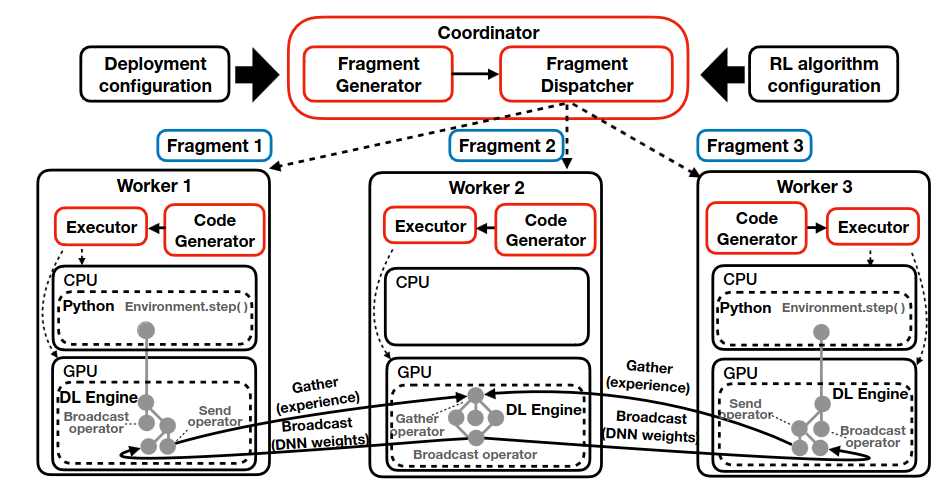
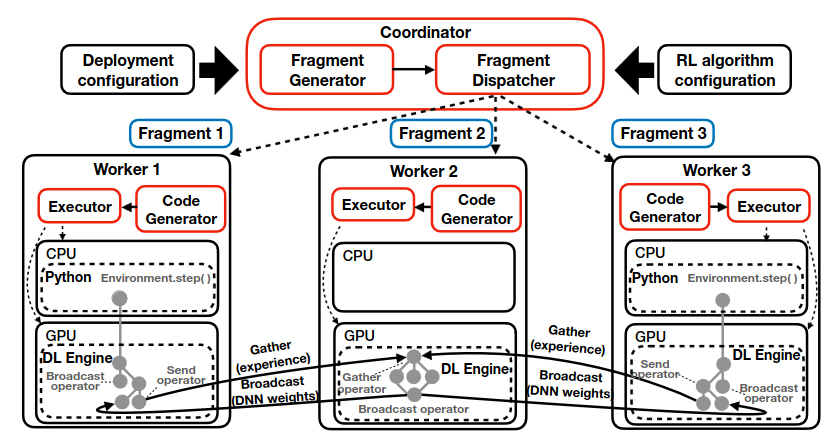
update msrl to dp2

diff --git a/tests/st/test_fully_connected_layer.py b/tests/st/test_fully_connected_layer.py
@@ -16,11 +16,12 @@
 Test case for fully connected layer module
 """
 
-import pytest
 import numpy as np
-import mindspore.nn as nn
-from mindspore import Tensor
+import pytest
+from mindspore import Tensor, nn
+
 from mindspore_rl.network.fully_connected_net import FullyConnectedLayers
+
 
 class Net(nn.Cell):
     """
@@ -29,8 +30,8 @@ class Net(nn.Cell):
 
     def __init__(self):
         super().__init__()
-        self.fc1 = nn.Dense(10, 20)
-        self.fc2 = nn.Dense(20, 3)
+        self.fc1 = nn.Dense(10, 20, bias_init="zeros")
+        self.fc2 = nn.Dense(20, 3, bias_init="zeros")
         self.relu = nn.ReLU()
 
     def construct(self, x):
@@ -39,6 +40,7 @@ class Net(nn.Cell):
         x = self.fc2(x)
         return self.relu(x)
 
+
 @pytest.mark.level0
 @pytest.mark.platform_x86_gpu_training
 @pytest.mark.platform_x86_ascend_training
@@ -46,19 +48,19 @@ class Net(nn.Cell):
 @pytest.mark.platform_x86_cpu
 @pytest.mark.env_onecard
 def test_fully_connected_layer():
-    '''
+    """
     Feature: Test test_fully_connected_layer class
     Description: Test test_fully_connected_layer class
     Expectation: success.
-    '''
+    """
     net = Net()
     fc_layers = FullyConnectedLayers(fc_layer_params=[10, 20, 3])
     net_fc1_weight = net.trainable_params()[0]
     net_fc2_weight = net.trainable_params()[2]
     for k, v in fc_layers.parameters_dict().items():
-        if 'weight' in k and '0' in k:
+        if "weight" in k and "0" in k:
             v.set_data(net_fc1_weight)
-        if 'weight' in k and '1' in k:
+        if "weight" in k and "1" in k:
             v.set_data(net_fc2_weight)
 
     input_x = Tensor(np.random.random([5, 10]).astype(np.float32))
@@ -67,5 +69,6 @@ def test_fully_connected_layer():
 
     assert np.allclose(expected.asnumpy(), actual.asnumpy(), atol=1e-5)
 
-if __name__ == '__main__':
+
+if __name__ == "__main__":
     test_fully_connected_layer()

diff --git a/README.md b/README.md
@@ -449,7 +449,7 @@ In general, researchers use native Python data structures or numpy data structur
 We describe MindSpore Reinforcement Learning (MSRL), a distributed RL training system that supports distribution
 policies that govern how RL training computation is parallelised and distributed on cluster resources, without requiring changes to the algorithm implementation. MSRL introduces the new abstraction of a fragmented dataflow graph, which maps Python functions from an RL algorithm’s training loop to parallel computational fragments. Fragments are executed on different devices by translating them to low-level dataflow representations, e.g. computational graphs as supported by deep learning engines, CUDA implementations or multi-threaded CPU processe
 
-<center><img src=docs/images/msrl.png width=700 height=350></center>
+<center><img src=docs/images/msrl.png width=700 height=460><p>MultiActorSingleLearnerDP</p></center>
 
 By now we have supported such distribution policies：
 
@@ -471,9 +471,26 @@ By now we have supported such distribution policies：
     </tr>
 <table>
 
+<table align="center">
+    <tr>
+        <td align="center">
+            <center>
+                <img src=docs/images/multiactorsinglelearnerdp.png width="60%">
+                </br><p>MultiActorSingleLearnerDP</p>
+            </center>
+        </td>
+        <td align="center">
+            <center>
+                <img src=docs/images/asyncmultiactorsinglelearnerdp.png width="60%">
+                </br><p>AsyncMultiActorSingleLearnerDP</p>
+            </center>
+        </td>
+    </tr>
+<table>
+
 ## Future Roadmap
 
-This initial release of MindSpore Reinforcement contains a stable API for implementing reinforcement learning algorithms and executing computation using MindSpore's computational graphs.  Now it supports semi-automatic distributed execution of algorithms and multi-agent, but does not support fully automatic distributed capabilities yet. These features will be included in the subsequent version of MindSpore Reinforcement. Please look forward to it.
+This initial release of MindSpore Reinforcement contains a stable API for implementing reinforcement learning algorithms and executing computation using MindSpore's computational graphs.  Now it supports automatic distributed execution of algorithms, multi-agent, offline-rl, mcts and so on. Features of optimized automatic distributed execution and LLMs will be included in the subsequent version of MindSpore Reinforcement. Please look forward to it.
 
 ## Community
 
